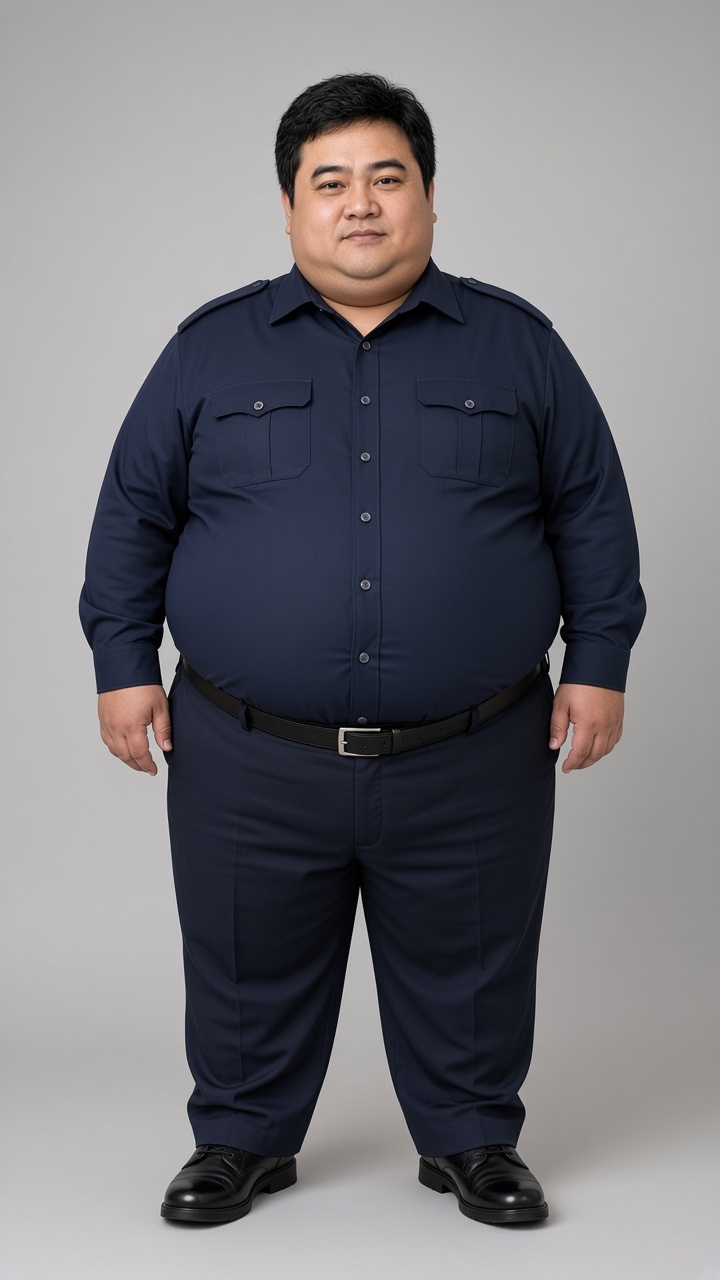
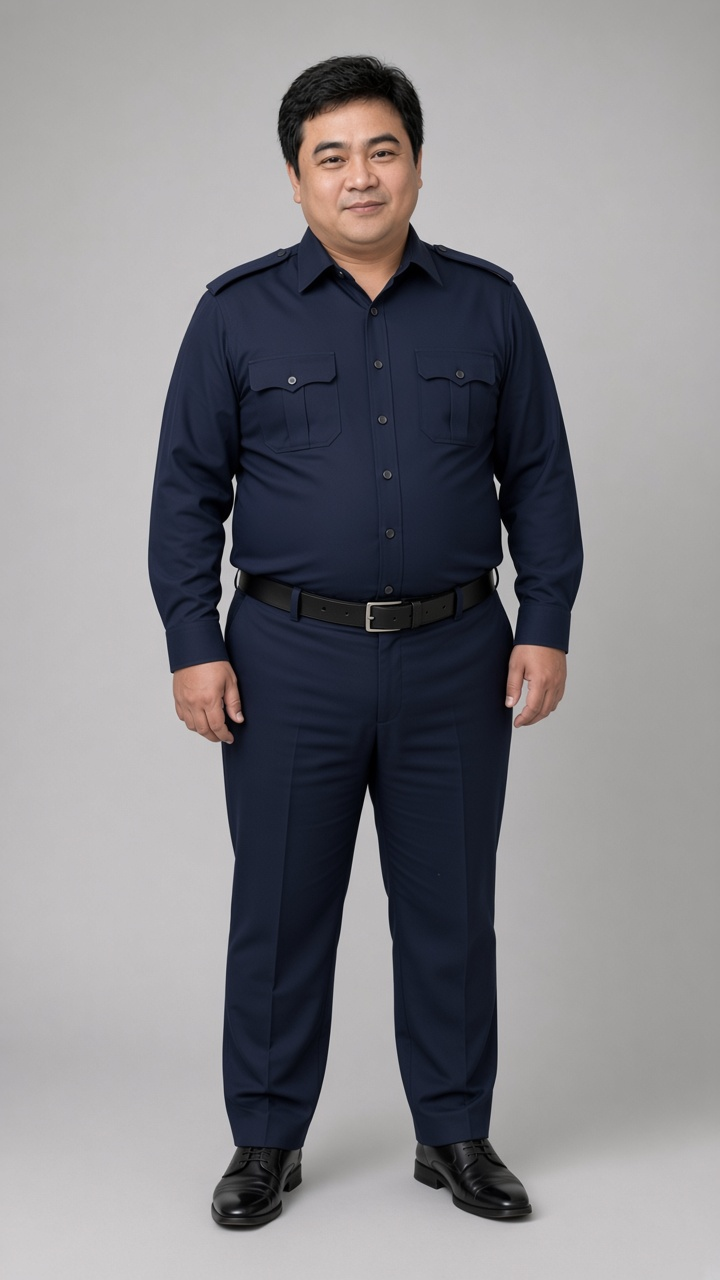
Set Hào's weight at 90 kg and rebuild his body plates.
Keep the 160 cm height and the same face, and reduce the belly so the driver suit and police uniform match that weight.

diff --git a/kich-ban/vuong-mien-mau-hanh-dong-hai.md b/kich-ban/vuong-mien-mau-hanh-dong-hai.md
@@ -64,7 +64,7 @@ Cô trong team ông Minh mở ghế xếp. Ghế cắn một cái vào ngón ôn
 
 ## 45 và cửa sân, trước cảnh 47
 
-Đặt vào lúc Hào giơ điện thoại ngang, trước khi James bước ra cổng. Thân hình là khóa mới: mập, cao 1,6 m.
+Đặt vào lúc Hào giơ điện thoại ngang, trước khi James bước ra cổng. Thân hình là khóa mới: cao 1,6 m, nặng 90 kg.
 
 Hào thắng một ván. Anh giơ điện thoại. Máy trượt, kẹt vào khe giữa bụng và vô-lăng trong trí nhớ tay anh. Anh kẹp máy vào bụng bằng cả hai cẳng tay, thở ra một cái. Cửa sân mở. Điện thoại đã ở trong túi. Hai tay buông. Anh là tài xế.
 
@@ -72,9 +72,9 @@ Hào thắng một ván. Anh giơ điện thoại. Máy trượt, kẹt vào khe
 
 # Tuyến hài — Hào
 
-Một tuyến. Hào 33 tuổi, mập, cao 1,6 m, cười dễ. James thấy một tài xế vụng. Đêm chung kết, cùng thân hình đó khống chế James. Danh tính công an là điểm cuối, đã có ở cảnh 96 và cảnh 101.
+Một tuyến. Hào 33 tuổi, cao 1,6 m, nặng 90 kg, bụng vừa, cười dễ. James thấy một tài xế vụng. Đêm chung kết, cùng thân hình đó khống chế James. Danh tính công an là điểm cuối, đã có ở cảnh 96 và cảnh 101.
 
-Kịch bản gốc ghi “nghiêm nghị”. Khóa này đổi dáng và nhịp hài. Không đổi tội danh, không đổi câu “anh Bùi Văn Mót”.
+Kịch bản gốc ghi “nghiêm nghị”. Khóa này đổi dáng và nhịp hài. Cân nặng dừng ở 90 kg. Không đổi tội danh, không đổi câu “anh Bùi Văn Mót”.
 
 ## 10 · Sân khách sạn
 
@@ -105,7 +105,7 @@ Trận boxing của James với đối thủ ở phòng tập, và trận James 
 
 ## 101 · Bãi đất
 
-Hào trong trang phục cảnh sát. Cùng khuôn mặt, cùng người mập cao 1,6 m. Không còn nụ cười. Cảnh vật chứng giữ nguyên Draft 10.
+Hào trong trang phục cảnh sát. Cùng khuôn mặt, cùng người cao 1,6 m, nặng 90 kg. Không còn nụ cười. Cảnh vật chứng giữ nguyên Draft 10.
 
 ## 75 · NỘI. SÂN KHẤU REHEARSAL - NGÀY
 
